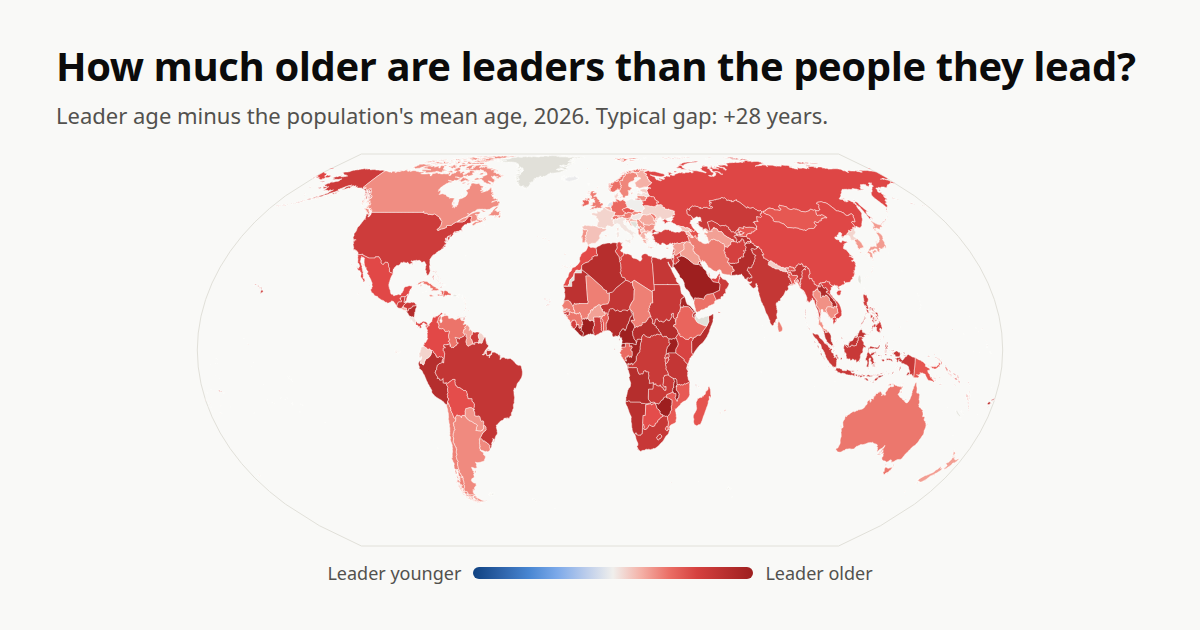
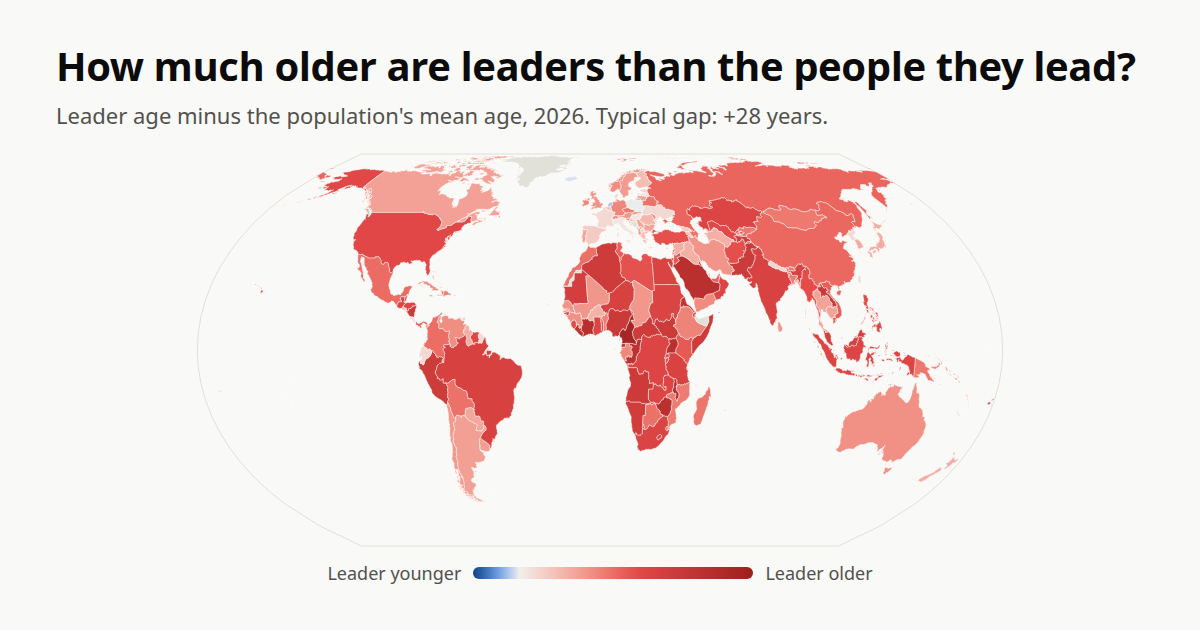
Fit the map's color scale to the data's range
The scale ran from -60 to +60 although no gap in any year is below
-10.8, so the blue half of the legend was empty and leaders younger
than their people were barely tinted. Each arm now ends at the most
extreme gap over all years, rounded out to 5 (today -15 and +75), and
the legend, the table's gap bars and the preview card use that range.

diff --git a/web/src/main.ts b/web/src/main.ts
@@ -1,5 +1,6 @@
+import * as d3 from "d3";
 import "./style.css";
-import { GAP_LIMIT, cssVar, darkQuery, gapScale } from "./colors";
+import { type GapDomain, cssVar, darkQuery, gapGradient } from "./colors";
 import { Model, loadDataset, type Dataset, type Row, type YearRow } from "./data";
 import { el, fmtAge, fmtBorn, fmtGap, yearsRange } from "./format";
 import { LineChart, type SeriesDef } from "./linechart";
@@ -69,11 +70,11 @@ async function main() {
   );
 
   // ---------------------------------------------------------------- views
-  const map = new WorldMap($("map"), (iso3) => setState({ country: iso3 }));
+  const map = new WorldMap($("map"), model.gapDomain, (iso3) => setState({ country: iso3 }));
   const countryChart = new LineChart($("country-chart"), 300);
   const trendChart = new LineChart($("trend-chart"), 300);
   const continents = [...new Set(ds.countries.map((c) => c.continent).filter(Boolean) as string[])].sort();
-  const table = new YearTable($("table"), $("table-filters"), $("table-count"), continents, (iso3) => {
+  const table = new YearTable($("table"), model.gapDomain, $("table-filters"), $("table-count"), continents, (iso3) => {
     setState({ country: iso3 });
     $("country-card").scrollIntoView({ behavior: "smooth", block: "start" });
   });
@@ -103,7 +104,7 @@ async function main() {
   }
 
   darkQuery.addEventListener("change", () => {
-    renderLegend();
+    renderLegend(model.gapDomain);
     map.paint();
     render();
   });
@@ -111,7 +112,7 @@ async function main() {
     Object.assign(state, readHash(model));
     render();
   });
-  renderLegend();
+  renderLegend(model.gapDomain);
   render();
 }
 
@@ -149,18 +150,16 @@ function curationText(c: Dataset["curation"][number]): string {
   }
 }
 
-function renderLegend() {
-  const color = gapScale();
-  const stops = Array.from({ length: 11 }, (_, i) => {
-    const v = -GAP_LIMIT + (i * 2 * GAP_LIMIT) / 10;
-    return `${color(v)} ${i * 10}%`;
-  });
-  const ticks = [-GAP_LIMIT, -GAP_LIMIT / 2, 0, GAP_LIMIT / 2, GAP_LIMIT].map((v) =>
-    el("span", {}, v === GAP_LIMIT ? `${fmtGap(v, 0)}+` : v === -GAP_LIMIT ? `${fmtGap(v, 0)}` : fmtGap(v, 0)),
+function renderLegend(domain: GapDomain) {
+  const [lo, hi] = domain;
+  // The two ends, zero, and round steps in between that leave room for the end labels.
+  const steps = d3.ticks(0, hi, 3).filter((v) => v > 0 && hi - v >= (hi - lo) / 10);
+  const ticks = [...new Set([lo, 0, ...steps, hi])].map((v) =>
+    el("span", { style: `left:${((v - lo) / (hi - lo)) * 100}%` }, fmtGap(v, 0)),
   );
   $("map-legend").replaceChildren(
     el("span", {}, "Leader younger"),
-    el("div", { class: "bar", style: `background:linear-gradient(90deg, ${stops.join(",")})` }),
+    el("div", { class: "bar", style: `background:${gapGradient(domain)}` }),
     el("span", {}, "Leader older"),
     el("div", { class: "ticks" }, ...ticks),
     el("span", { style: "grid-column: 1 / -1; margin-top: 4px" }, el("span", { class: "nodata-swatch" }), "No data (not independent, or no single leader)"),

diff --git a/web/src/table.ts b/web/src/table.ts
@@ -1,5 +1,5 @@
 import type { YearRow } from "./data";
-import { GAP_LIMIT, gapScale } from "./colors";
+import { type GapDomain, gapScale } from "./colors";
 import { el, fmtAge, fmtBorn, fmtGap } from "./format";
 
 type SortKey = "country" | "leader" | "la" | "ma" | "gap";
@@ -32,9 +32,11 @@ export class YearTable {
 
   private countLabel: HTMLElement;
   private onSelect: (iso3: string) => void;
+  private domain: GapDomain;
 
   constructor(
     host: HTMLElement,
+    domain: GapDomain,
     filters: HTMLElement,
     countLabel: HTMLElement,
     continents: string[],
@@ -42,6 +44,7 @@ export class YearTable {
   ) {
     this.countLabel = countLabel;
     this.onSelect = onSelect;
+    this.domain = domain;
     const search = el("input", { type: "search", placeholder: "Filter by country or leader", "aria-label": "Filter table" });
     search.addEventListener("input", () => {
       this.query = search.value.trim().toLowerCase();
@@ -134,7 +137,7 @@ export class YearTable {
       return (typeof va === "string" ? va.localeCompare(vb as string) : va - (vb as number)) * dir;
     });
 
-    const color = gapScale();
+    const color = gapScale(this.domain);
     this.countLabel.textContent = `${rows.length} of ${this.rows.length} countries`;
     this.tbody.replaceChildren(
       ...rows.map((r) => {
@@ -151,7 +154,7 @@ export class YearTable {
           el("td", { class: "muted col-born" }, fmtBorn(r.leader)),
           el("td", { class: "num col-age" }, fmtAge(r.la)),
           el("td", { class: "num col-age" }, fmtAge(r.ma), r.proj ? el("span", { class: "muted", title: "UN projection" }, "*") : null),
-          el("td", { class: "num" }, gapCell(r.gap, color)),
+          el("td", { class: "num" }, gapCell(r.gap, color, this.domain)),
         );
         tr.addEventListener("click", () => this.onSelect(r.iso3));
         tr.addEventListener("keydown", (e) => {
@@ -163,12 +166,10 @@ export class YearTable {
   }
 }
 
-function gapCell(gap: number | null, color: (v: number) => string): HTMLElement {
+function gapCell(gap: number | null, color: (v: number) => string, [lo, hi]: GapDomain): HTMLElement {
   const wrap = el("div", { class: "gap-cell" }, el("span", {}, fmtGap(gap)));
   if (gap == null) return wrap;
-  // Bar from zero; scale shows -20..+GAP_LIMIT+20 with zero at 20%.
-  const lo = -20;
-  const hi = GAP_LIMIT + 20;
+  // Bar from zero, on the same lo..hi range as the color scale.
   const pct = (v: number) => ((Math.max(lo, Math.min(hi, v)) - lo) / (hi - lo)) * 100;
   const zero = pct(0);
   const end = pct(gap);

diff --git a/web/src/colors.ts b/web/src/colors.ts
@@ -1,14 +1,28 @@
 import * as d3 from "d3";
 
-/** Gap (years) at which the diverging scale saturates. */
-export const GAP_LIMIT = 60;
+/** Gaps (years) at the two ends of the diverging scale: [most negative, most positive]. */
+export type GapDomain = readonly [lo: number, hi: number];
+
+/** The smallest and largest gap over all years, rounded out to 5 years, so the scale ends where the data ends. */
+export function gapDomain(gaps: Iterable<number>): GapDomain {
+  let lo = 0;
+  let hi = 0;
+  for (const g of gaps) {
+    lo = Math.min(lo, g);
+    hi = Math.max(hi, g);
+  }
+  return [Math.floor(lo / 5) * 5, Math.ceil(hi / 5) * 5];
+}
 
 export function cssVar(name: string): string {
   return getComputedStyle(document.documentElement).getPropertyValue(name).trim();
 }
 
-/** Diverging blue (leader younger) ↔ gray (same age) ↔ red (leader older). */
-export function gapScale(): d3.ScaleDiverging<string> {
+/**
+ * Diverging blue (leader younger) ↔ gray (same age) ↔ red (leader older). Each arm spans its own side of the
+ * domain, so the most negative gap is as saturated as the most positive one.
+ */
+export function gapScale([lo, hi]: GapDomain): d3.ScaleDiverging<string> {
   const interp = d3.piecewise(d3.interpolateLab, [
     cssVar("--div-neg"),
     cssVar("--div-neg-mid"),
@@ -16,7 +30,16 @@ export function gapScale(): d3.ScaleDiverging<string> {
     cssVar("--div-pos-mid"),
     cssVar("--div-pos"),
   ]);
-  return d3.scaleDiverging(interp).domain([-GAP_LIMIT, 0, GAP_LIMIT]).clamp(true);
+  return d3.scaleDiverging(interp).domain([lo, 0, hi]).clamp(true);
+}
+
+/** CSS gradient of the scale from lo to hi, for legends. */
+export function gapGradient(domain: GapDomain): string {
+  const [lo, hi] = domain;
+  const color = gapScale(domain);
+  const pct = (v: number) => ((v - lo) / (hi - lo)) * 100;
+  const values = [...d3.range(21).map((i) => lo + (i * (hi - lo)) / 20), 0].sort((a, b) => a - b);
+  return `linear-gradient(90deg, ${values.map((v) => `${color(v)} ${pct(v)}%`).join(",")})`;
 }
 
 export const darkQuery = window.matchMedia("(prefers-color-scheme: dark)");

diff --git a/web/src/map.ts b/web/src/map.ts
@@ -5,7 +5,7 @@ import type { GeometryCollection, Topology } from "topojson-specification";
 import type { Feature, Geometry } from "geojson";
 import worldUrl from "world-atlas/countries-50m.json?url";
 import type { YearRow } from "./data";
-import { gapScale } from "./colors";
+import { type GapDomain, gapScale } from "./colors";
 import { fmtAge, fmtGap } from "./format";
 import { hideTooltip, showTooltip } from "./tooltip";
 
@@ -24,8 +24,11 @@ export class WorldMap {
   private host: HTMLElement;
   private onSelect: (iso3: string) => void;
 
-  constructor(host: HTMLElement, onSelect: (iso3: string) => void) {
+  private domain: GapDomain;
+
+  constructor(host: HTMLElement, domain: GapDomain, onSelect: (iso3: string) => void) {
     this.host = host;
+    this.domain = domain;
     this.onSelect = onSelect;
     this.svg = d3.select(host).append("svg").attr("role", "img").attr("aria-label", "World map of the leader–population age gap");
   }
@@ -80,7 +83,7 @@ export class WorldMap {
 
   paint(): void {
     if (!this.paths) return;
-    const color = gapScale();
+    const color = gapScale(this.domain);
     this.paths
       .attr("fill", (f) => {
         const r = f.iso3 ? this.rows.get(f.iso3) : undefined;

diff --git a/web/og/card.ts b/web/og/card.ts
@@ -1,6 +1,6 @@
 import "../src/style.css";
 import "./card.css";
-import { GAP_LIMIT, gapScale } from "../src/colors";
+import { gapGradient } from "../src/colors";
 import { Model, loadDataset } from "../src/data";
 import { el, fmtGap } from "../src/format";
 import { WorldMap } from "../src/map";
@@ -11,15 +11,13 @@ const stat = model.stat(year)!;
 document.getElementById("sub")!.textContent =
   `Leader age minus the population's mean age, ${year}. Typical gap: ${fmtGap(stat.median, 0)} years.`;
 
-const map = new WorldMap(document.getElementById("map")!, () => {});
+const map = new WorldMap(document.getElementById("map")!, model.gapDomain, () => {});
 await map.load();
 map.update(model.rows(year), null);
 
-const color = gapScale();
-const stops = Array.from({ length: 11 }, (_, i) => `${color(-GAP_LIMIT + (i * GAP_LIMIT) / 5)} ${i * 10}%`);
 document.getElementById("legend")!.replaceChildren(
   el("span", {}, "Leader younger"),
-  el("div", { class: "og-bar", style: `background:linear-gradient(90deg, ${stops.join(",")})` }),
+  el("div", { class: "og-bar", style: `background:${gapGradient(model.gapDomain)}` }),
   el("span", {}, "Leader older"),
 );
 document.body.dataset.ready = "1";

diff --git a/web/src/data.ts b/web/src/data.ts
@@ -1,6 +1,8 @@
 // Shape of public/data/gap.json (written by pipeline/build.py) and the
 // derived per-year views the UI works from.
 
+import { type GapDomain, gapDomain } from "./colors";
+
 export interface Row {
   y: number;
   /** index into Dataset.leaders */
@@ -85,6 +87,7 @@ export class Model {
   readonly countries = new Map<string, Country>();
   readonly byYear = new Map<number, YearRow[]>();
   readonly stats: YearStat[] = [];
+  readonly gapDomain: GapDomain;
 
   readonly ds: Dataset;
 
@@ -127,6 +130,7 @@ export class Model {
         worldMeanAge: ds.worldMeanAge[year] ?? null,
       });
     }
+    this.gapDomain = gapDomain(Object.values(ds.series).flatMap((rows) => rows.flatMap((r) => (r.gap == null ? [] : [r.gap]))));
   }
 
   rows(year: number): YearRow[] {

diff --git a/web/src/style.css b/web/src/style.css
@@ -347,10 +347,23 @@ button:hover {
 
 .scale-legend .ticks {
   grid-column: 2;
-  display: flex;
-  justify-content: space-between;
+  position: relative;
+  height: 1.3em;
   font-variant-numeric: tabular-nums;
   color: var(--ink-muted);
+}
+
+.scale-legend .ticks span {
+  position: absolute;
+  transform: translateX(-50%);
+}
+
+.scale-legend .ticks span:first-child {
+  transform: none;
+}
+
+.scale-legend .ticks span:last-child {
+  transform: translateX(-100%);
 }
 
 .nodata-swatch {
